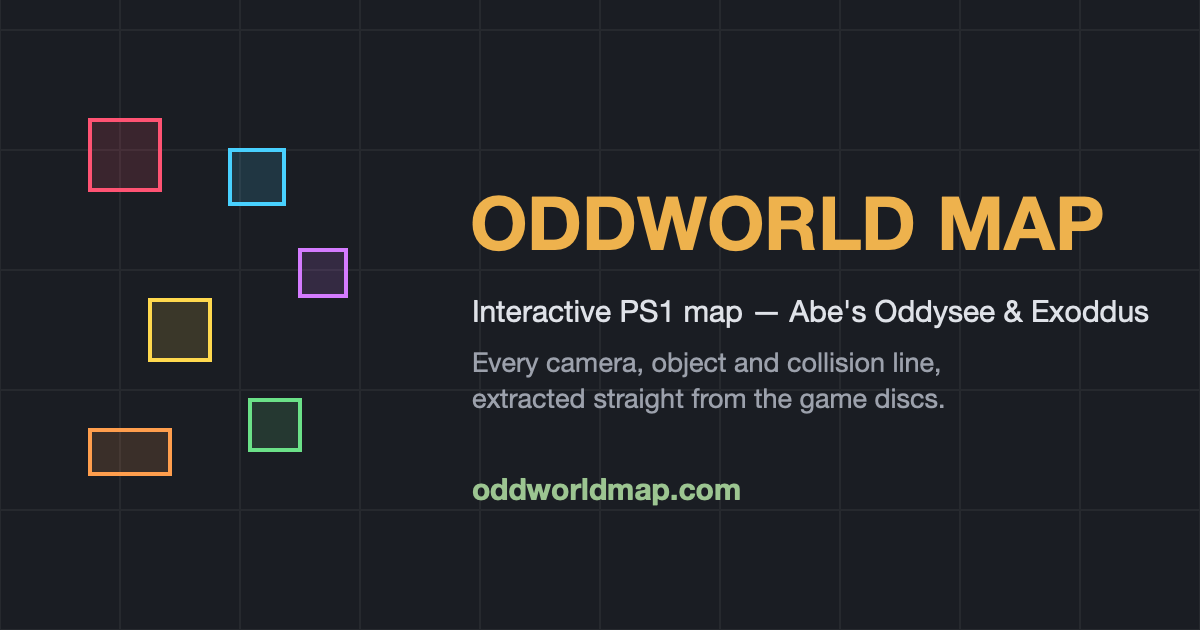
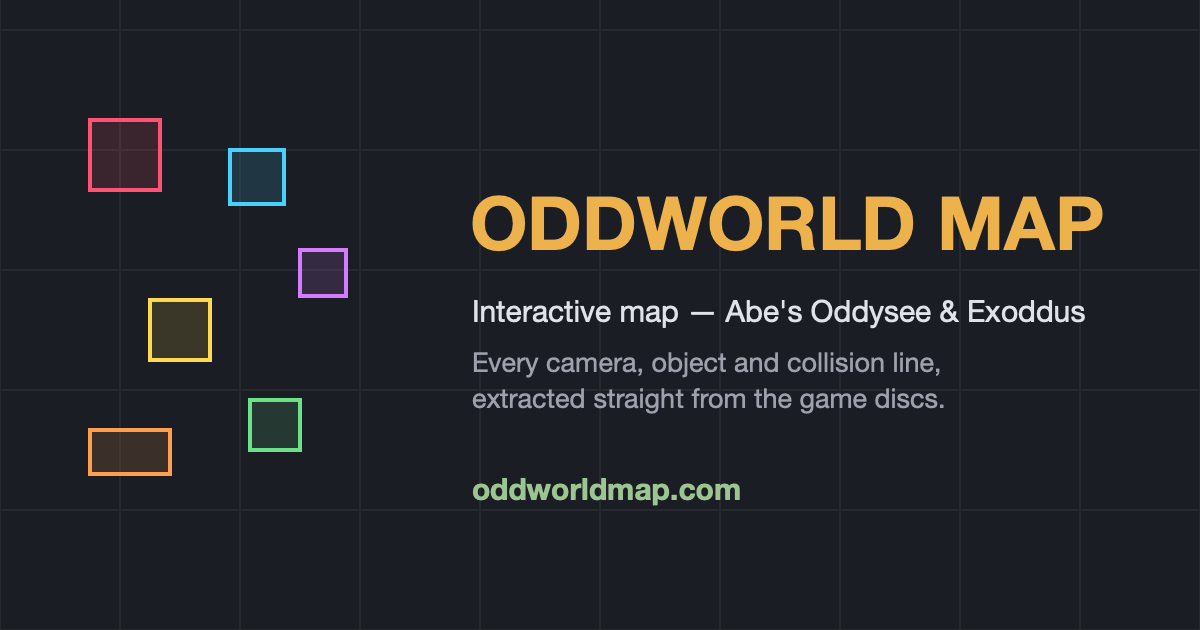
Commit the og-image generator and drop PS1 from the card subtitle
tools/ogcard.swift is the previously uncommitted CoreGraphics script
that renders the 1200x630 social card; the regenerated og-image.png now
reads "Interactive map - Abe's Oddysee & Exoddus".

Changed region(s): [[0.5242, 0.4524, 0.9558, 0.5127]]

diff --git a/tools/ogcard.swift b/tools/ogcard.swift
@@ -1,0 +1,52 @@
+// Renders og-image.png, the 1200×630 social card, with CoreGraphics/CoreText (macOS).
+// Run: swift tools/ogcard.swift og-image.png && oxipng -o 2 --strip safe og-image.png
+import Foundation
+import CoreGraphics
+import ImageIO
+import CoreText
+import UniformTypeIdentifiers
+
+let outPath = CommandLine.arguments[1]
+let W = 1200, H = 630
+let cs = CGColorSpaceCreateDeviceRGB()
+let ctx = CGContext(data: nil, width: W, height: H, bitsPerComponent: 8, bytesPerRow: 0,
+                    space: cs, bitmapInfo: CGImageAlphaInfo.premultipliedLast.rawValue)!
+func col(_ hex: UInt32,_ a: CGFloat = 1) -> CGColor {
+  CGColor(red: CGFloat((hex>>16)&255)/255, green: CGFloat((hex>>8)&255)/255, blue: CGFloat(hex&255)/255, alpha: a)
+}
+// background
+ctx.setFillColor(col(0x14161a)); ctx.fill(CGRect(x:0,y:0,width:W,height:H))
+// faint camera grid (evokes the map)
+ctx.setStrokeColor(col(0xffffff, 0.05)); ctx.setLineWidth(2)
+for gx in stride(from: 0, through: W, by: 120) { ctx.move(to: CGPoint(x:CGFloat(gx),y:0)); ctx.addLine(to: CGPoint(x:CGFloat(gx),y:CGFloat(H))) }
+for gy in stride(from: 0, through: H, by: 120) { ctx.move(to: CGPoint(x:0,y:CGFloat(gy))); ctx.addLine(to: CGPoint(x:CGFloat(W),y:CGFloat(gy))) }
+ctx.strokePath()
+// object marker boxes scattered (the viewer's visual language)
+let boxes: [(CGFloat,CGFloat,CGFloat,CGFloat,UInt32)] = [
+  (90,120,70,70,0xff3860),(230,150,54,54,0x3ec6ff),(150,300,60,60,0xffd23e),
+  (90,430,80,44,0xff8b3d),(250,400,50,50,0x5dde75),(300,250,46,46,0xc85dff),
+]
+ctx.setLineWidth(4)
+for (x,y,w,h,c) in boxes {
+  ctx.setStrokeColor(col(c)); ctx.setFillColor(col(c,0.14))
+  let r = CGRect(x:x,y:CGFloat(H)-y-h,width:w,height:h)
+  ctx.fill(r); ctx.stroke(r)
+}
+
+func text(_ str: String,_ x: CGFloat,_ y: CGFloat,_ sizePt: CGFloat,_ hex: UInt32, bold: Bool = false) {
+  let font = CTFontCreateWithName((bold ? "HelveticaNeue-Bold" : "HelveticaNeue") as CFString, sizePt, nil)
+  let attr = [kCTFontAttributeName: font, kCTForegroundColorAttributeName: col(hex)] as CFDictionary
+  let line = CTLineCreateWithAttributedString(CFAttributedStringCreate(nil, str as CFString, attr)!)
+  ctx.textPosition = CGPoint(x:x, y:CGFloat(H)-y)
+  CTLineDraw(line, ctx)
+}
+text("ODDWORLD MAP", 470, 250, 74, 0xe8a33d, bold: true)
+text("Interactive map — Abe's Oddysee & Exoddus", 472, 322, 30, 0xd8dbe2)
+text("Every camera, object and collision line,", 472, 372, 27, 0x8a8f9c)
+text("extracted straight from the game discs.", 472, 408, 27, 0x8a8f9c)
+text("oddworldmap.com", 472, 500, 30, 0x8cbb7f, bold: true)
+
+let img = ctx.makeImage()!
+let dest = CGImageDestinationCreateWithURL(URL(fileURLWithPath: outPath) as CFURL, UTType.png.identifier as CFString, 1, nil)!
+CGImageDestinationAddImage(dest, img, nil); CGImageDestinationFinalize(dest)
+print("wrote \(outPath)")

diff --git a/CLAUDE.md b/CLAUDE.md
@@ -29,7 +29,7 @@ Guidance for AI agents working in this repo. User-facing docs (controls, rebuild
 - Both Exoddus discs list every level, but each disc carries full content only for its half — the other half are stubs with path data and no cam files. Always pick the largest copy of a level across discs (the builder does).
 - AE ender level ids reuse their base level's archive; the table parser deduplicates so each LVL file appears once in the level list.
 
-- Static site files that are not the viewer or its data: `favicon.svg` (source of truth for the icon; `favicon-96.png` and `apple-touch-icon.png` are rasterized from it), `og-image.png` (1200×630 social card), `site.webmanifest`, `robots.txt`, `sitemap.xml`, `CNAME` (oddworldmap.com). Regenerate the PNGs from the SVG if the icon changes (a CoreGraphics Swift script was used; any SVG rasterizer works).
+- Static site files that are not the viewer or its data: `favicon.svg` (source of truth for the icon; `favicon-96.png` and `apple-touch-icon.png` are rasterized from it), `og-image.png` (1200×630 social card, rendered by `tools/ogcard.swift` — edit the script and rerun it, don't touch the PNG directly), `site.webmanifest`, `robots.txt`, `sitemap.xml`, `CNAME` (oddworldmap.com). Regenerate the icon PNGs from the SVG if the icon changes (a CoreGraphics Swift script was used; any SVG rasterizer works).
 
 ## Conventions
 